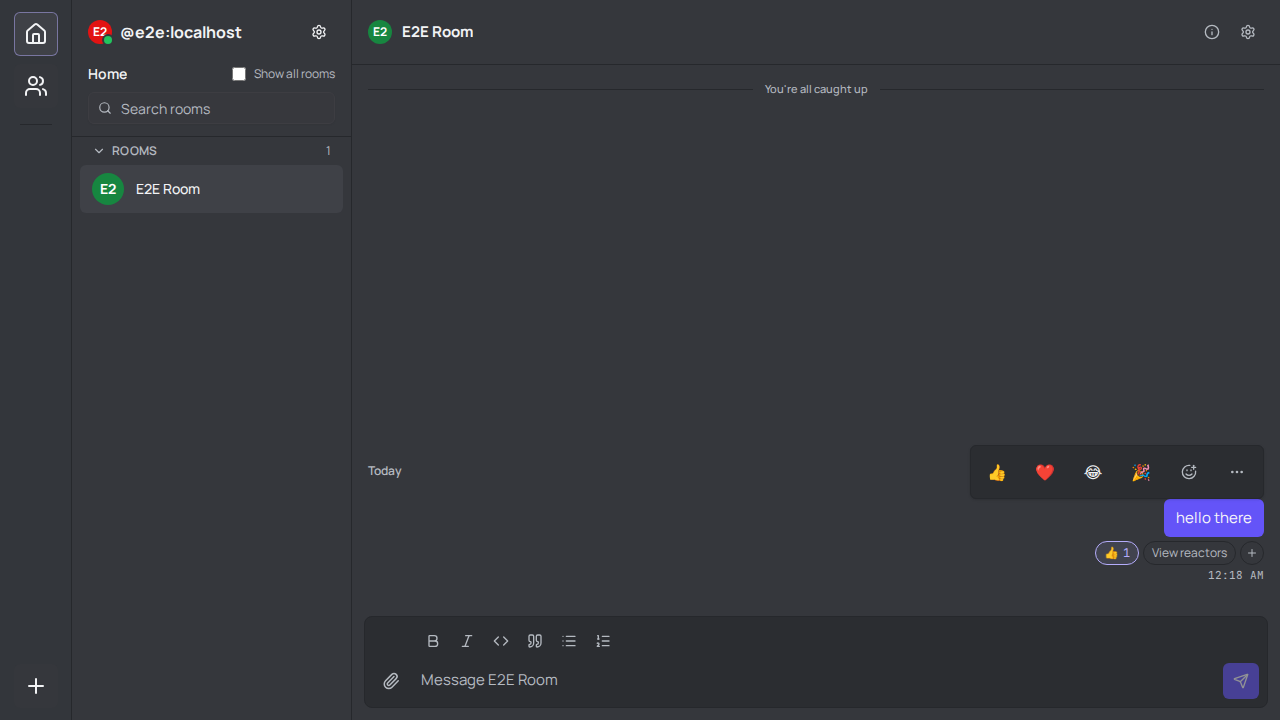
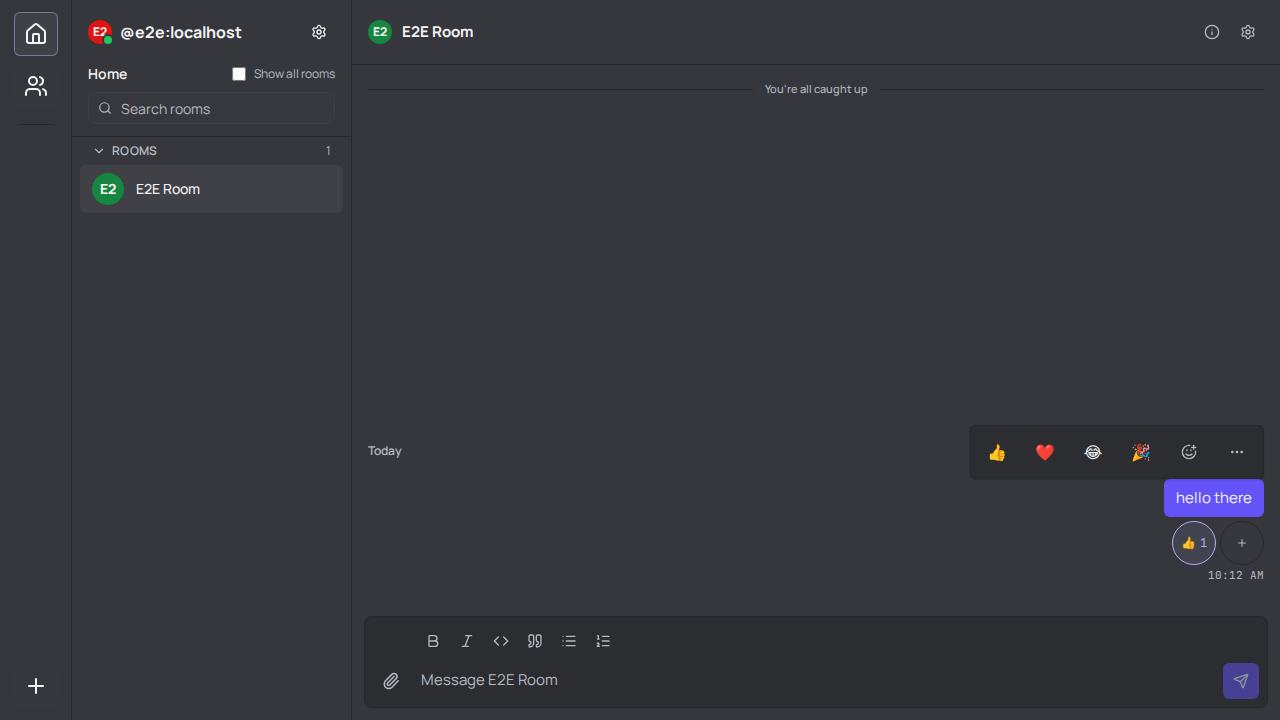
docs(ux): refresh integrated composer and reaction gallery evidence

Changed region(s): [[0.8125, 0.6111, 1.0, 0.7944], [0.75, 0.6111, 0.7812, 0.6722], [0.2812, 0.6111, 0.3125, 0.6722]]

diff --git a/docs-site/src/content/docs/operations/ux-recovery.md b/docs-site/src/content/docs/operations/ux-recovery.md
@@ -57,6 +57,32 @@ viewer access while proving no reaction mutation and retaining disabled Reply/Pi
 checks. A follow-up removes compact-only touch-hold gating so input modality stays
 independent of width. These follow-ups require fresh exact-head qualification.
 
+At `d5334501cd8ba55e6dac6ec19c0b2332f73fcd1a`, hosted Quality
+[40855254619](https://github.com/CloudHub-Social/Charm/actions/runs/40855254619)
+passed frontend lint, formatting, typecheck, coverage, dead-code checking and
+build, browser regressions, Storybook/axe and both snapshot upload consumers.
+CodeQL [40855254526](https://github.com/CloudHub-Social/Charm/actions/runs/40855254526)
+and documentation [40855254448](https://github.com/CloudHub-Social/Charm/actions/runs/40855254448)
+passed. Quality overall failed because three committed gallery captures lagged
+the integrated UI: voice-recording, message-actions and ux-refresh-navigation-rail.
+Their hosted candidates were visually compared with the committed images: one
+integrated voice preview replaces the separate panel, and larger reaction targets
+replace the small chips and persistent reactor label. Only those three gallery
+images are refreshed; comparison tolerances and journey assertions are unchanged.
+The gallery refresh requires its own exact-head CI; these passes belong to d5334501.
+
+All eight voice accessory story captures and representative integrated voice
+retry/discard, compact reaction and medium context captures were inspected.
+The synthetic browser media journey is not evidence of native microphone access,
+real server delivery or physical-device acceptance. Sentry snapshot set 121277
+remains unapproved; successful capture/upload jobs do not approve that set.
+Preview [40855254522](https://github.com/CloudHub-Social/Charm/actions/runs/40855254522)
+failed its deployed API proxy check with HTTP503 at 2026-10-29T10:10:17.747Z;
+this remains with the separate PR606 owner. Native Rust/iOS builds were not
+selected by the merged CI change detector, so aggregate gate success is not a
+native build pass. PR611 stays draft following the coordinator's deliberate
+ready-step cancellation; draft review/checklist exemptions do not qualify review.
+
 Implementation is in progress, not yet qualified. Exact-head hosted frontend,
 browser, security, axe, current screenshots and substantive review dispositions
 must pass. Existing gallery candidates and snapshot approvals are historical;
